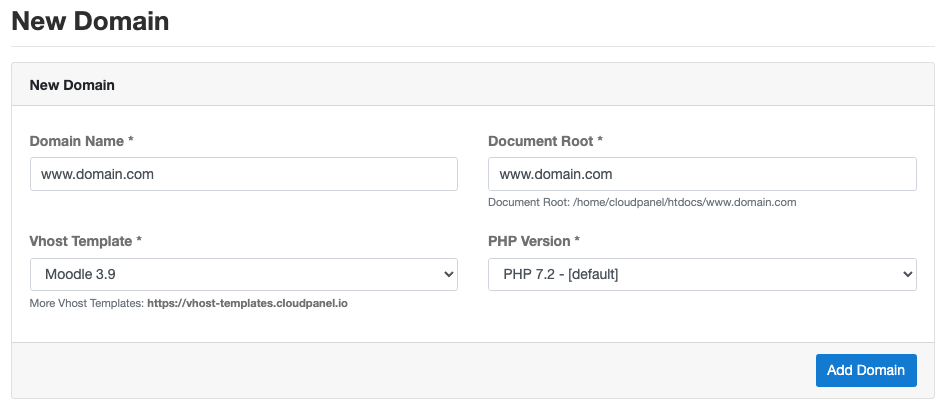
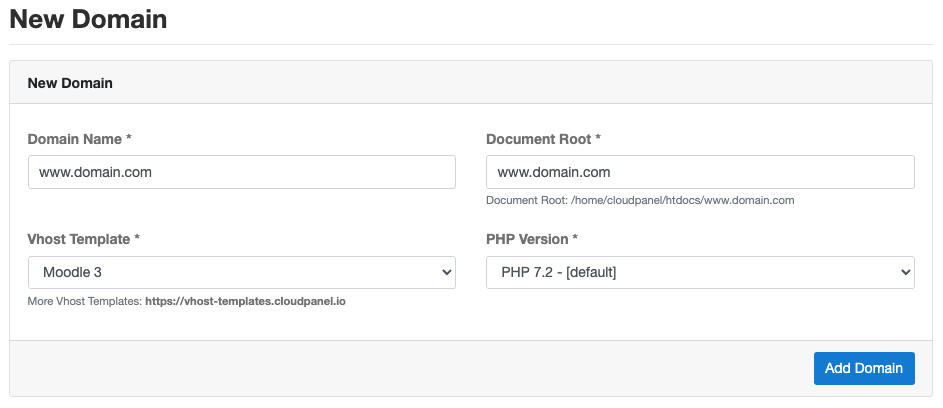
.

diff --git a/cloudpanel-ce/sidebars.js b/cloudpanel-ce/sidebars.js
@@ -159,7 +159,7 @@ module.exports = {
           type: 'category',
           label: 'Moodle',
           items: [
-            'applications/moodle-3.9',
+            'applications/moodle-3',
           ]
         },
         {

diff --git a/cloudpanel-ce/docs/applications/moodle-3.md b/cloudpanel-ce/docs/applications/moodle-3.md
@@ -1,12 +1,12 @@
 ---
-id: moodle-3.9
-title: Moodle 3.9
-sidebar_label: Moodle 3.9
+id: moodle-3
+title: Moodle 3
+sidebar_label: Moodle 3
 ---
 
 import useBaseUrl from '@docusaurus/useBaseUrl';
 
-On this page, we explain step by step how to setup **[Moodle 3.9](https://moodle.org/)** with **CloudPanel**.
+On this page, we explain step by step how to setup **[Moodle 3](https://moodle.org/)** with **CloudPanel**.
 
 ## Installation
 
@@ -16,7 +16,7 @@ In the following example we will setup **[Moodle](https://moodle.org/)** under t
 
 Before we can start with the installation, we need to create an [SSH User](../frontend-area/users#adding-a-user), a [Database](../frontend-area/databases#adding-a-database), and a [Domain](../frontend-area/domains#adding-a-domain).
 
-When you [Add the Domain](../frontend-area/domains#adding-a-domain), make sure to select the **Moodle 3.9 Vhost Template** and the right **PHP Version**.
+When you [Add the Domain](../frontend-area/domains#adding-a-domain), make sure to select the **Moodle 3 Vhost Template** and the right **PHP Version**.
 
 <img class="border" src={useBaseUrl('img/v1/applications/moodle-3/new_domain.png')} /> <br /><br />
 
@@ -30,10 +30,10 @@ To install **Moodle** do the following steps:
 cd ~/tmp
 ```
 
-2. Download and extract the latest **Moodle 3.9** version.
+2. Download and extract the latest **Moodle 3** version.
 
 ```
-curl -sL https://download.moodle.org/download.php/direct/stable39/moodle-latest-39.tgz | tar xfz -
+curl -sL https://download.moodle.org/download.php/direct/stable310/moodle-3.10.tgz | tar xfz -
 ```
 
 3. Move files to the **htdocs** directory of the domain:
@@ -59,6 +59,6 @@ rm -rf ~/tmp/*
 
 <img class="border" src={useBaseUrl('img/v1/applications/moodle-3/installation_wizard.png')} />
 
-7. Done! **Moodle 3.9** is now installed.
+7. Done! **Moodle 3** is now installed.
 
 <img class="border" src={useBaseUrl('img/v1/applications/moodle-3/moodle_dashboard.png')} />

diff --git a/cloudpanel-ce/docs/applications/mautic-3.md b/cloudpanel-ce/docs/applications/mautic-3.md
@@ -39,7 +39,7 @@ rm -rf /home/cloudpanel/htdocs/www.domain.com
 3. Clone the latest version from the [Mautic Git Repository](https://github.com/mautic/mautic):
 
 ```
-git clone -b 3.1.2 https://github.com/mautic/mautic.git /home/cloudpanel/htdocs/www.domain.com
+git clone -b 3.2.0 https://github.com/mautic/mautic.git /home/cloudpanel/htdocs/www.domain.com
 ```
 
 :::caution Latest Version
